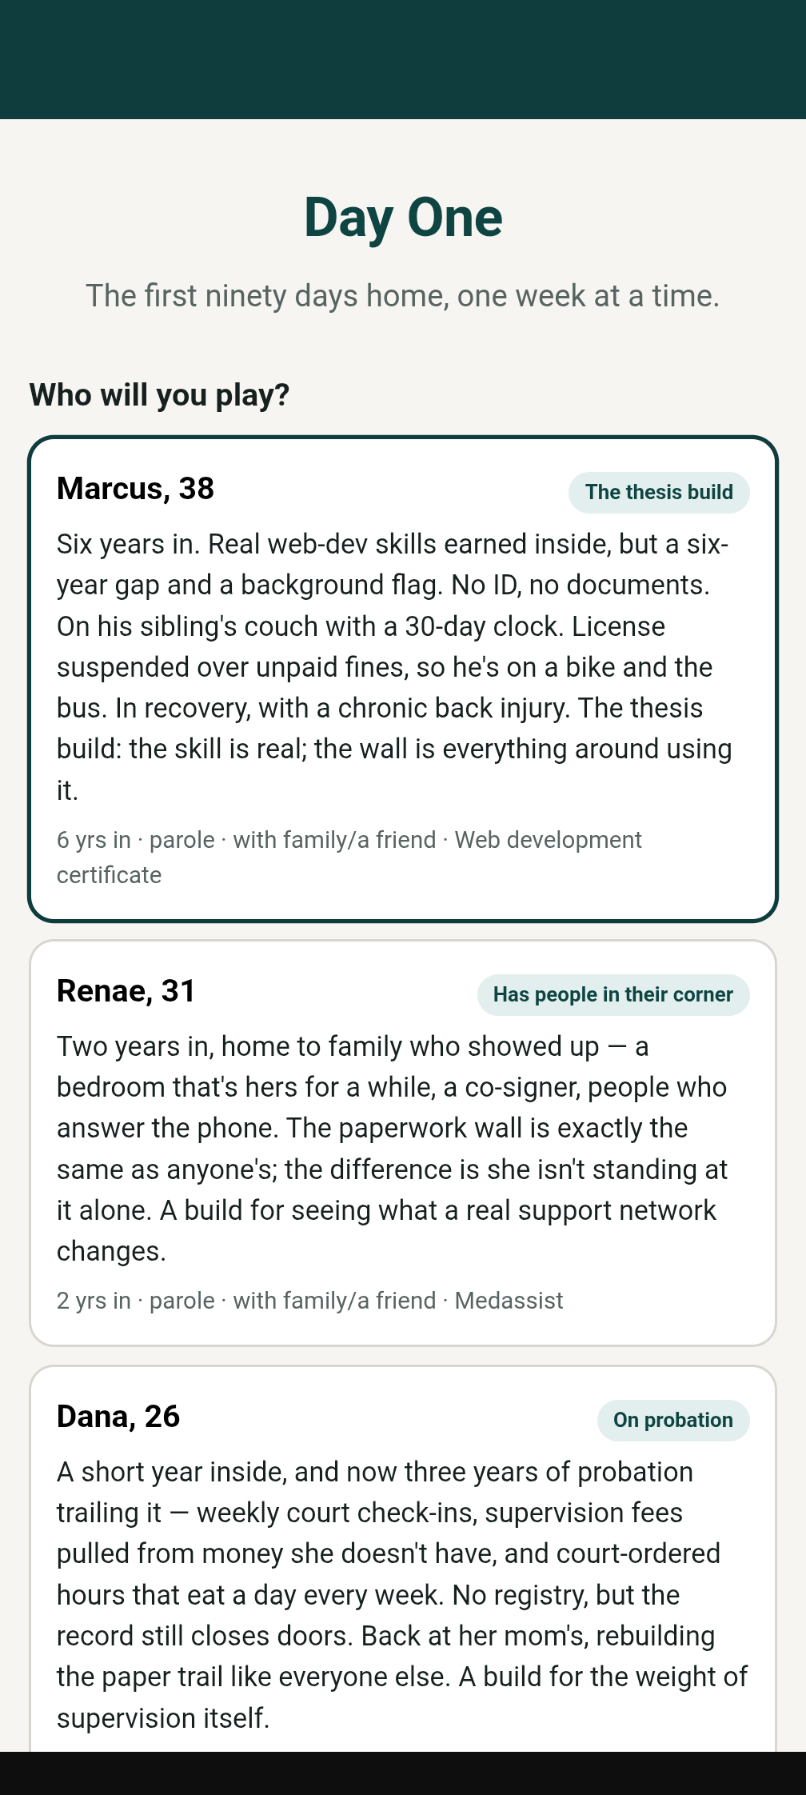
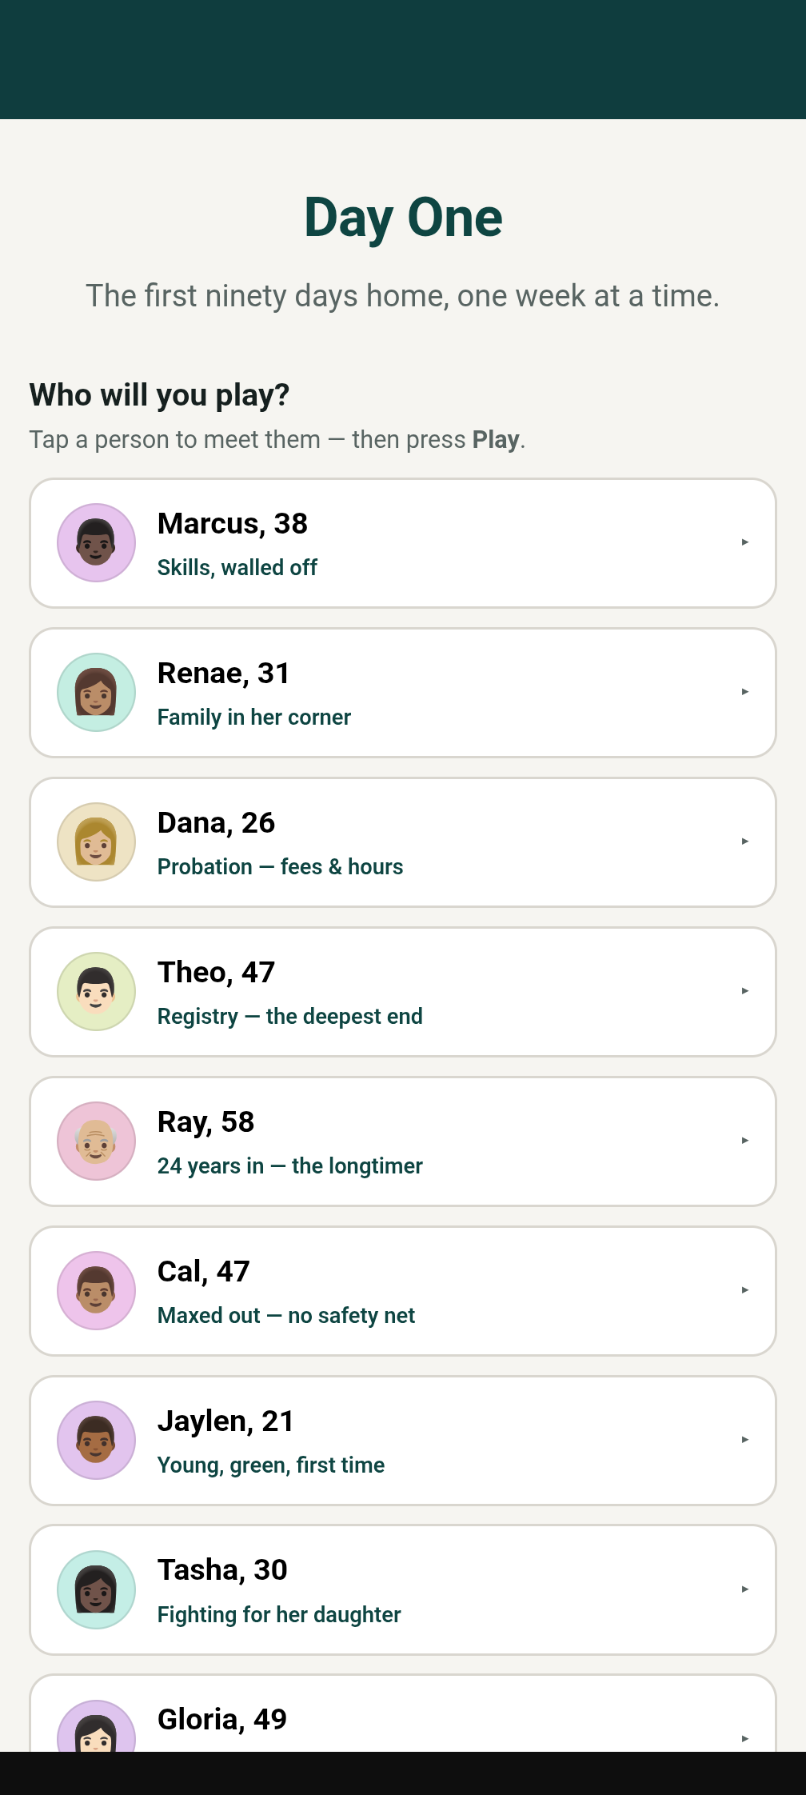
docs: refresh character-select + situation-panel screenshots for the v1.3.0 UI
Swap in on-device captures of the redesigned character select (avatars + unique tags +
compact cards) and the situation panel (now showing the character's avatar).

Changed region(s): [[0.031, 0.2184, 0.9615, 0.9983], [0.9615, 0.2496, 0.9926, 0.4992]]

diff --git a/README.md b/README.md
@@ -33,7 +33,7 @@ are remembered, not imagined.
 
 | The landing page | Who will you play? |
 | :---: | :---: |
-| ![Day One's landing page — sunrise logo, Play / About, theme controls](docs/screenshots/landing.png) | ![Character select — reentry builds, each with time inside, supervision, and where they're sleeping](docs/screenshots/character-select.png) |
+| ![Day One's landing page — sunrise logo, Play / About, theme controls](docs/screenshots/landing.png) | ![Character select — nine builds, each with an avatar and a one-line identity; tap to expand and Play](docs/screenshots/character-select.png) |
 | **The weekly turn** | **The document catch-22** |
 | ![A week in play — resource bars, a "rent is due" interrupt, a parole check-in due, and the actions you can take](docs/screenshots/turn-screen.png) | ![Getting a state ID — the right next move shown locked, listing what it requires](docs/screenshots/event-state-id.png) |
 | **Your situation** | **Ninety days — the debrief** |